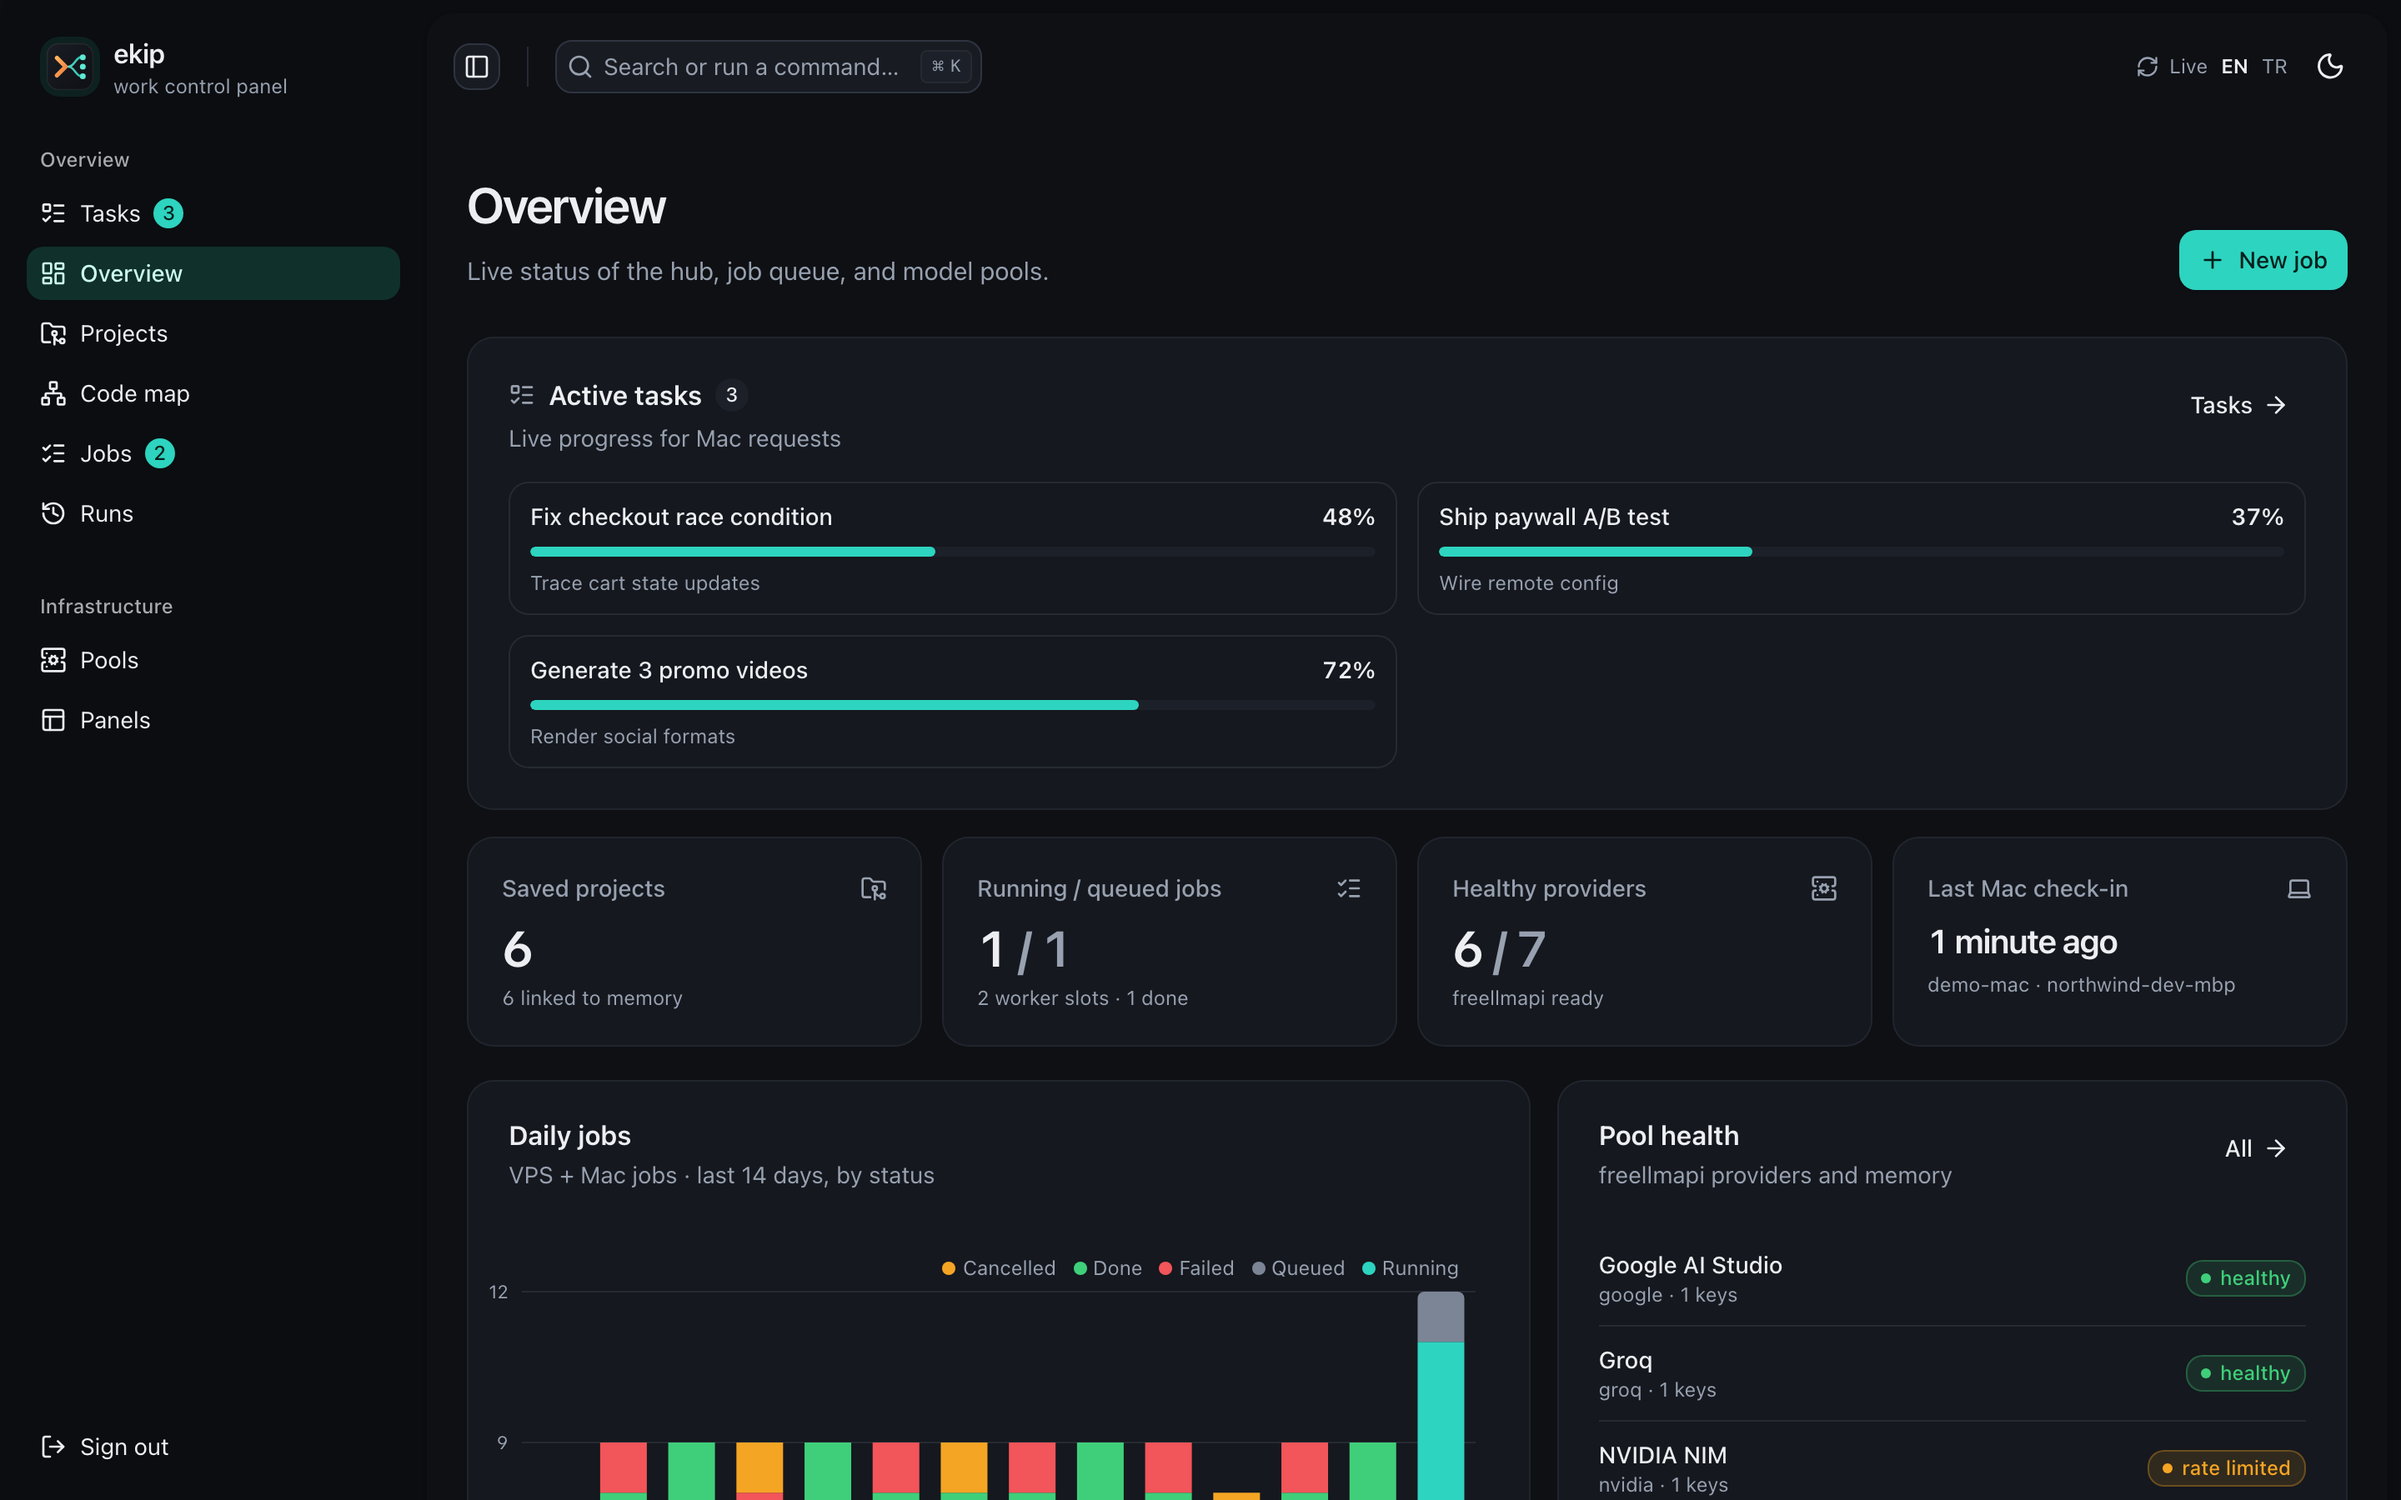
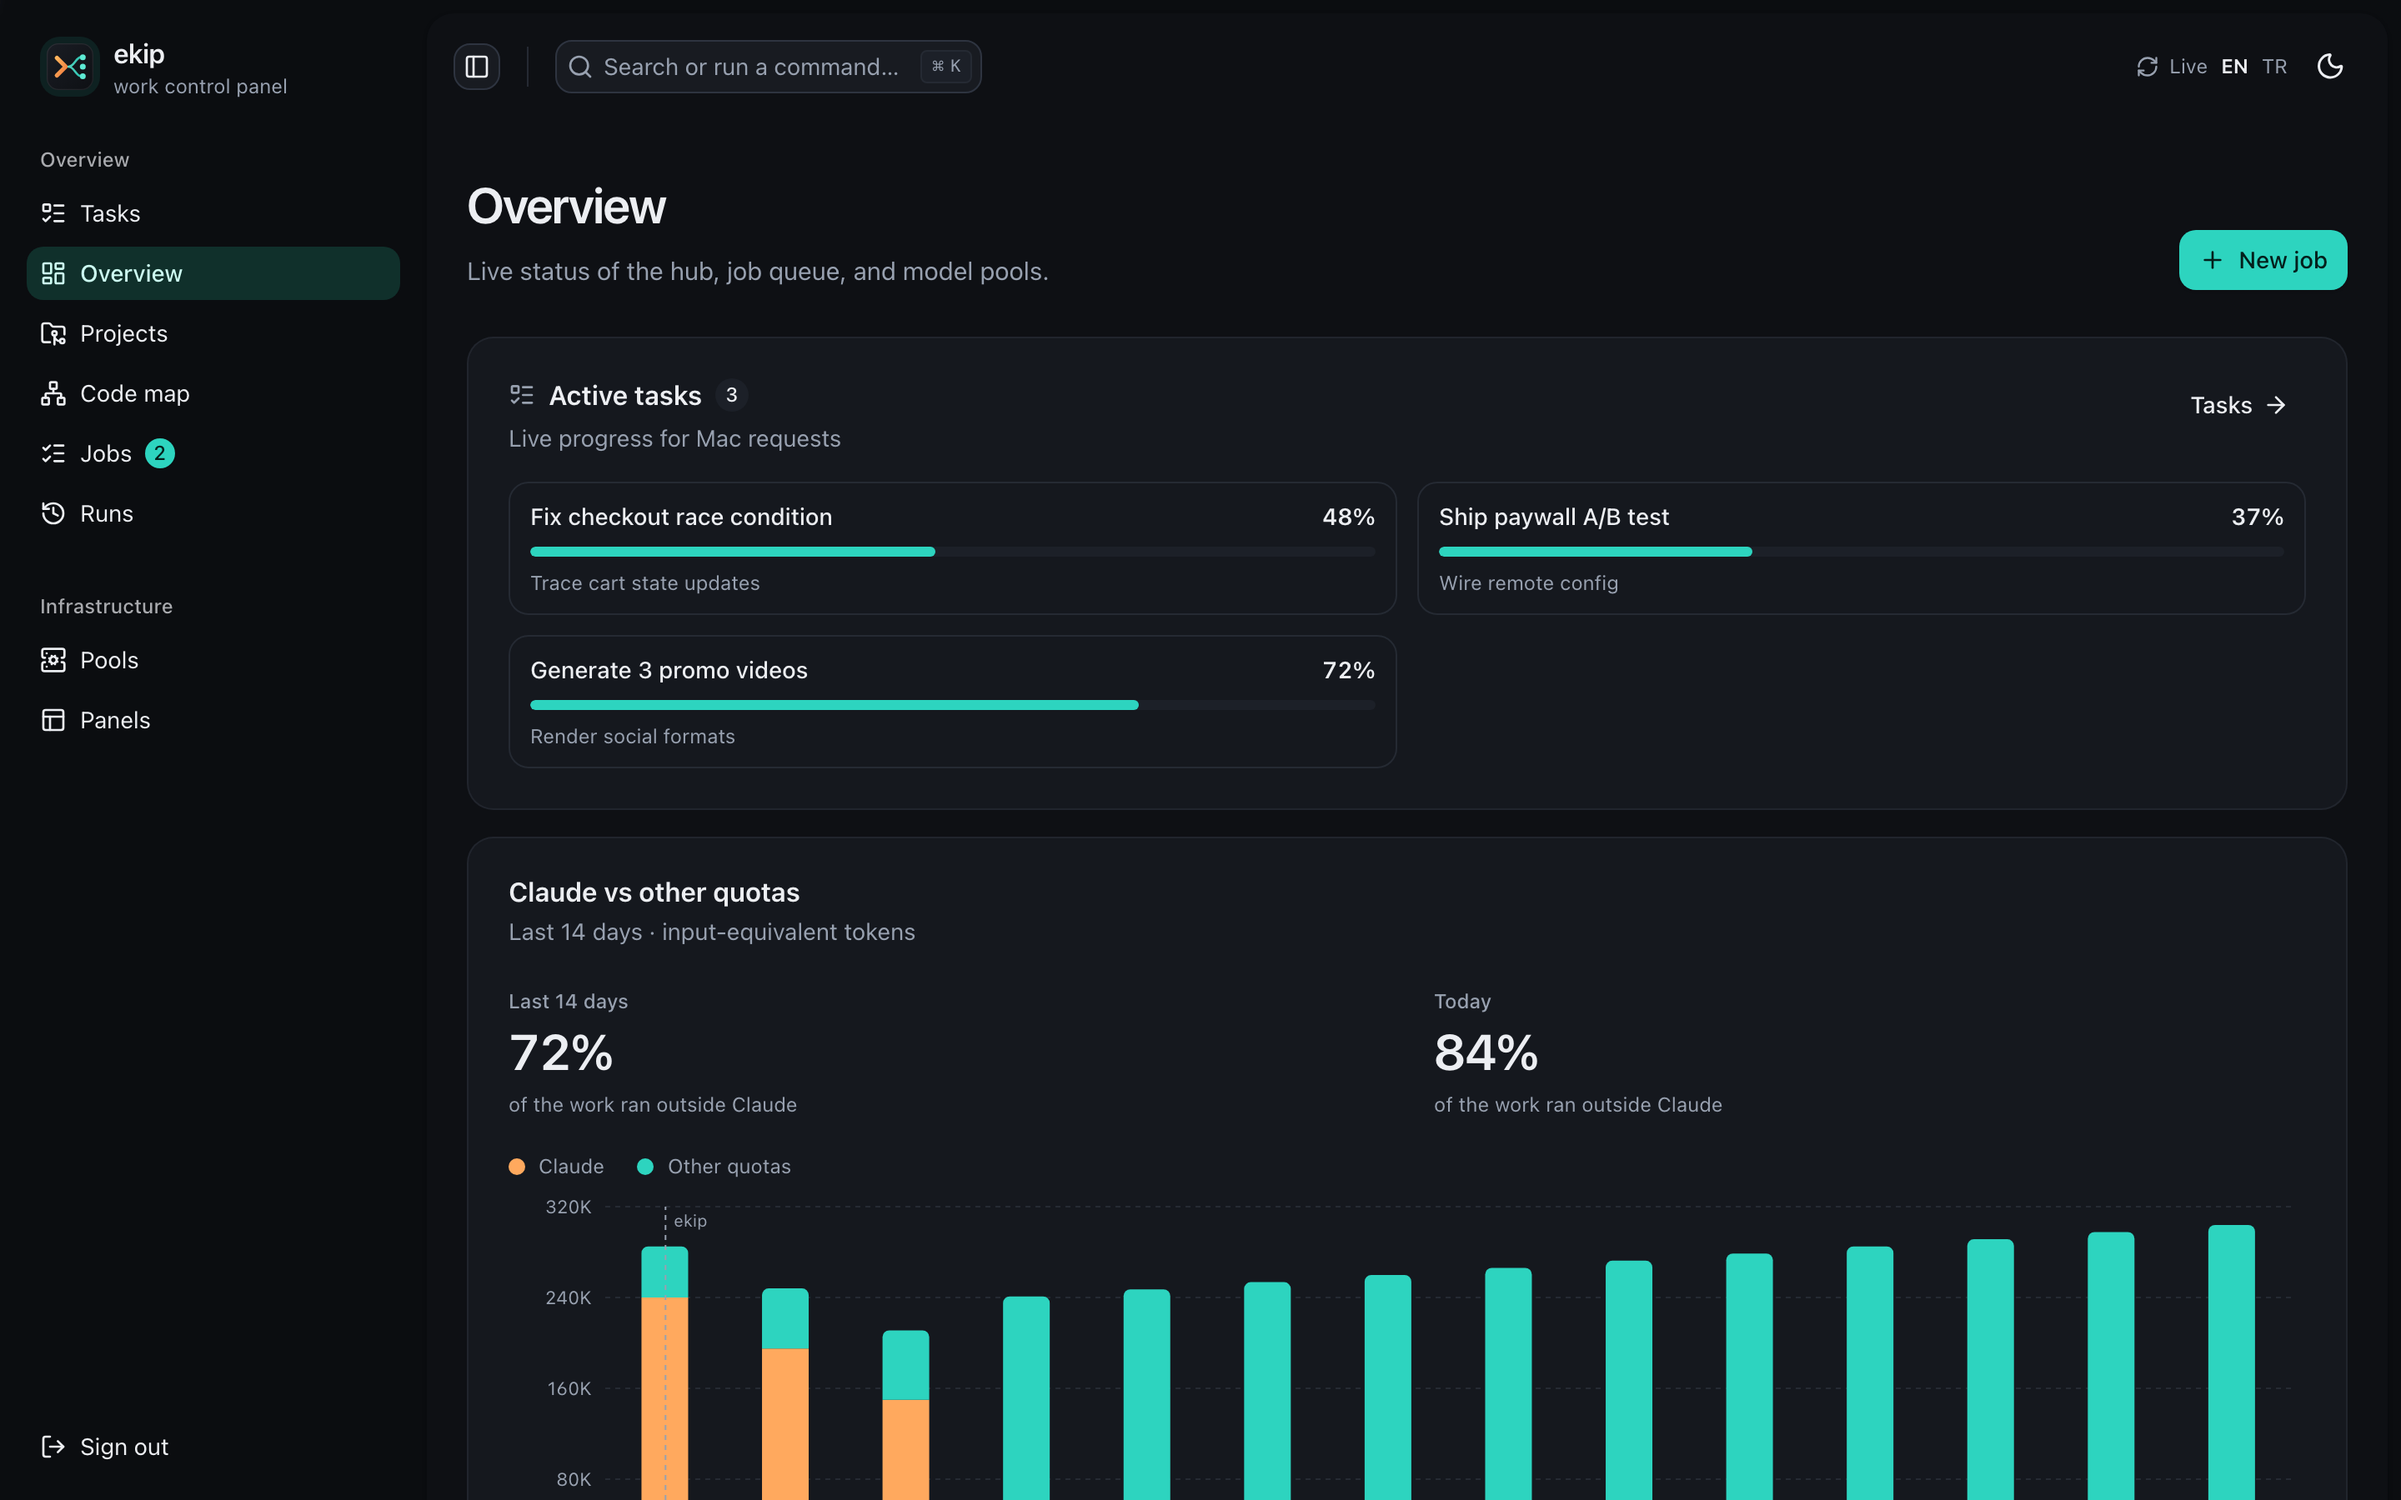
README and docs: built not to get stuck (watchdog, self-closing tasks, measured ETA, single-instance jobs, language sweep); fresh panel screenshots with the new savings chart; screenshot script

diff --git a/README.md b/README.md
@@ -16,7 +16,7 @@
 </p>
 
 > [!NOTE]
-> **Status:** early (v1), used every day by its author on 15 projects. macOS first; the hub runs on any Linux VPS with Docker.
+> **Status:** v1.1, used every day by its author on 15 projects. macOS first; the hub runs on any Linux VPS with Docker.
 
 ## Why
 
@@ -77,6 +77,21 @@ How memory works and why vectors matter, in depth: [docs/memory.md](docs/memory.
 </table>
 
 <p align="center"><img src="docs/screenshots/terminal-tasks-wide.png" alt="Task pane in the terminal" width="100%"><br><sub><b>Terminal</b> · the same tasks in a pane next to your Claude session</sub></p>
+
+## Built not to get stuck
+
+Long agent work fails quietly: a CLI hangs, a free model stops answering, a task says "running" all
+night. ekip handles that itself, so you never have to chase it.
+
+- **Every worker has a watchdog.** 15 minutes without output or 90 minutes in total, and it is stopped;
+  the reason goes onto the task and `auto` moves the work to the next pool.
+- **Tasks close themselves** when their steps are done or their last worker ends, and a task nobody
+  touched for 6 hours is closed as stalled. The pane and the panel never show yesterday's work as live.
+- **Estimates are measured, not guessed.** The finish time comes from the real rate of progress; with
+  no basis yet, ekip shows none instead of a made-up number.
+- **Background jobs run one copy at a time**, so two imports never fight over the same quota.
+- **Memory stays in your language.** A nightly sweep rewrites any memory a free model wrote in the
+  wrong language, text, search index and vector together.
 
 ## Agents that talk to each other
 

diff --git a/docs/architecture.md b/docs/architecture.md
@@ -61,6 +61,7 @@ flowchart LR
 | Worker panes | A title using the worker label or project, live output, and a quiet line confirming the worker is still working. A killed worker is detected; its pane shows that it stopped and closes after 90 seconds. Completed panes also close after 90 seconds; Enter closes either immediately. |
 | `ekip limits` | Worker and free-provider limits, open models, recent errors, and current routing. |
 | `ekip doctor [--fix]` | Checks the tunnel, pools, project graphs, wiki, and memory; `--fix` starts safe repairs. Launchd runs the check every 30 minutes. |
+| Watchdog | Every worker is stopped after 15 minutes without output or 90 minutes in total (`EKIP_IDLE_MIN`, `EKIP_TIMEOUT_MIN`); the reason is noted on the task and `auto` falls through to the next pool. Tasks close themselves when all steps are done or the last worker ends, and are closed as stalled after 6 hours without activity. The ETA uses the measured rate since the first update and is hidden while there is no basis. |
 | `ekip reconcile` | Closes runs whose processes disappeared without reporting. It also runs before a new worker run and as part of `doctor`. |
 | Web panel | Overview, projects and code maps, jobs, runs, worker pools, panels, and live tasks with step details and stall status. The interface supports English and Turkish; route paths remain English. |
 
